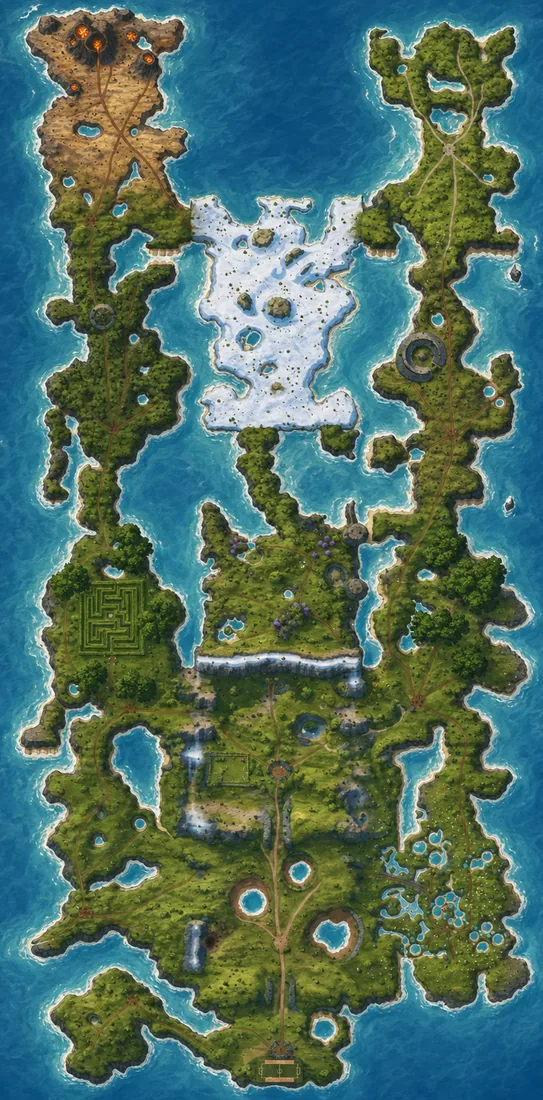
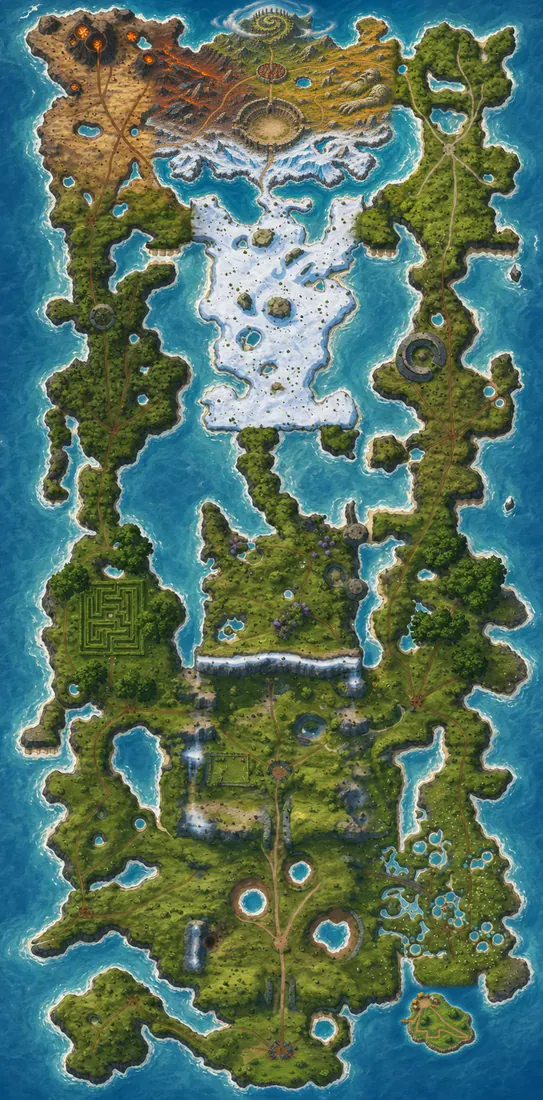
feat(map): paint the Quartered Isle onto the world map
The continent plate still showed open sea where the isle now stands. The
isle is painted in at its true place and scale, the Proving Shore islet
is added, and the bare pitch in Eastbrook is painted over to match the
vale around it.

Changed region(s): [[0.2357, 0.0, 0.7661, 0.2164], [0.7072, 0.8655, 0.884, 0.9582], [0.4715, 0.9582, 0.5893, 0.9891]]

diff --git a/CREDITS.md b/CREDITS.md
@@ -257,7 +257,7 @@ than free, so ask before you rely on it.
 | Ignivar raid target portraits (`public/ui/mobs/{ignivar_cinder_artificer,ignivar_crucible_warden,ignivar_ember_sentinel,ignivar_heart_of_the_end,ignivar_herald_of_the_last_flame,varkhul_forgefather_of_the_last_flame}.webp`) | World of ClaudeCraft render; underlying model authors credited above | Rendered locally from the canonical shipped model and visual manifests with `scripts/render_finder_portraits.mjs`; exact model keys, deterministic renderer inputs, and accepted hashes are retained in the [mob portrait source manifest](docs/achievements/placeholder-art-completion-2026-08-09/mob-portrait-source-manifest.json) without reclassifying the underlying model licenses | Project render; underlying source licenses retained | With the project only |
 | HUD chrome launcher icons (`public/ui/chrome/*.webp`, one per primary destination in the side rail and mobile bar, keyed to alpha and normalized to 128px WebP via `scripts/convert_chrome_icons_webp.mjs`) | World of ClaudeCraft | Historical launcher art was project-generated with Google Gemini image generation to one authored direction (the Reliquary crown is authored in-repo as layered SVG under `scripts/assets/chrome_crown/`); `perfecting` and `harvest-journal` were added with OpenAI built-in image generation for the Masterwrought completion wave. All icons were keyed and optimized locally; provenance per icon is in `public/ui/chrome/mapping.json` and the completion evidence | Project asset, rights reserved | **No, permission required** |
 | Map and minimap marker paintings (`public/ui/map-markers/*.webp`) | World of ClaudeCraft | Twenty-nine original micro-icons generated with OpenAI built-in image generation from the exact World of ClaudeCraft references and prompts recorded in `public/ui/map-markers/mapping.json`; the [V1 map-marker lineage](docs/achievements/map-marker-art-2026-08-12.md) preserves the first accepted batch, the [V2 map-marker lineage](docs/achievements/map-marker-art-v2-2026-08-12.md) records the responsive redesigns and expanded families, and the [Masterwrought completion lineage](docs/achievements/masterwrought-art-completion-2026-09-02/) records `farm-patch`; all were chroma-keyed, reviewed at actual runtime sizes, and optimized locally | Project asset, rights reserved | **No, permission required** |
-| World-map continent overview plate (`public/map_art/world_overview.webp`, the painted backdrop of the interactive world map's continent level) | World of ClaudeCraft | Project-generated with Google Gemini image generation (terrain-only top-down key art, no baked text), cropped to the continent's land bounds so the plate rect equals the world bounds, and optimized to WebP locally | Project asset, rights reserved | **No, permission required** |
+| World-map continent overview plate (`public/map_art/world_overview.webp`, the painted backdrop of the interactive world map's continent level) | World of ClaudeCraft | Project-generated with Google Gemini image generation (terrain-only top-down key art, no baked text), cropped to the continent's land bounds so the plate rect equals the world bounds, and optimized to WebP locally; the Quartered Isle, the Proving Shore islet and a patch of the Eastbrook vale were later painted in with OpenAI image generation and blended into the plate locally | Project asset, rights reserved | **No, permission required** |
 | Guide webfonts (`public/fonts/*.woff2`: Cinzel by Natanael Gama; Alegreya and Alegreya Sans by Juan Pablo del Peral, Huerta Tipografica; woff2 subsets latin/latin-ext/cyrillic/vietnamese as served by Google Fonts, self-hosted for the /wiki guide and the game client) | Natanael Gama; Huerta Tipografica | https://fonts.google.com/specimen/Cinzel , https://fonts.google.com/specimen/Alegreya , https://fonts.google.com/specimen/Alegreya+Sans | SIL OFL 1.1 | Yes, under SIL OFL 1.1 |
 | Owner-provided Mage artwork (`fireball_form.webp`, `counterspell.webp`) | Levy Street account | Owner-provided artwork | Used with permission (Levy Street) | **No, permission required** |
 | Owner-provided Druid artwork (`public/ui/skills/druid/cat_form.webp`, the Cat Form lynx head) | Levy Street account | Owner-provided artwork, re-encoded to 128px WebP via `scripts/convert_skill_icons_webp.mjs` | Used with permission (Levy Street) | **No, permission required** |
